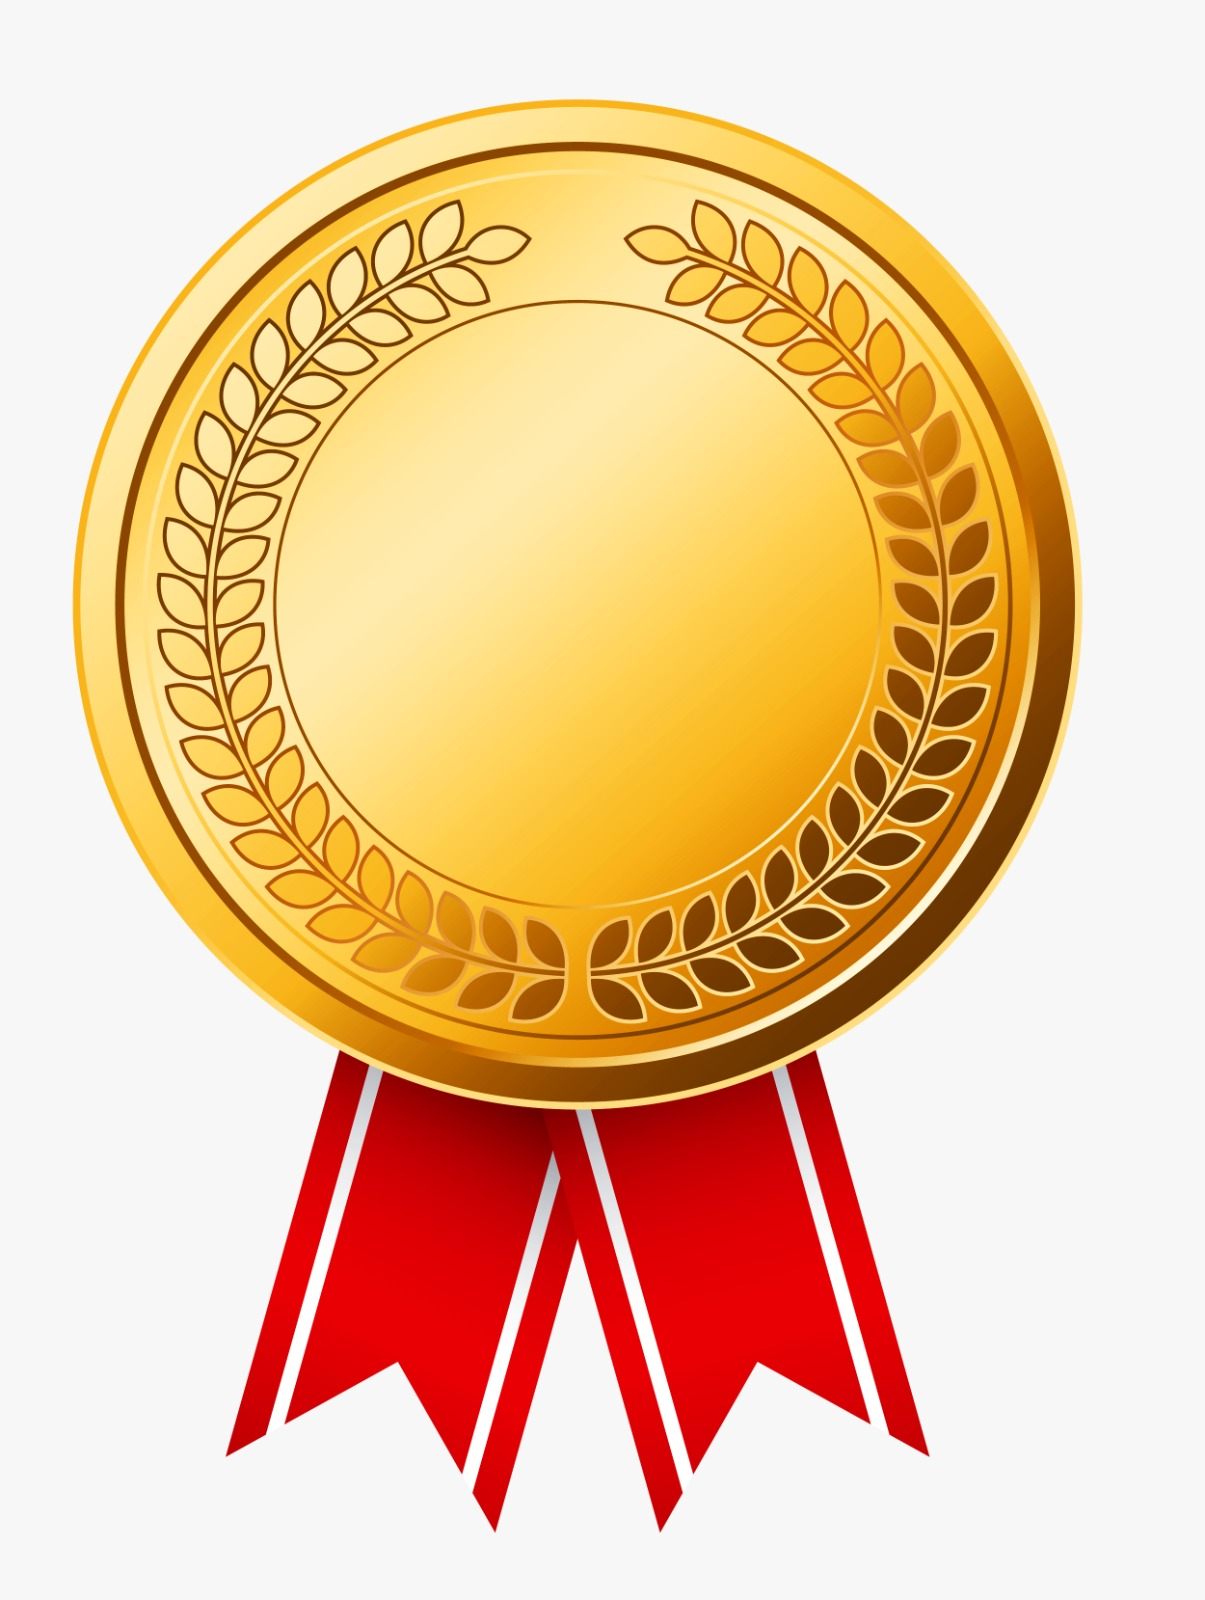
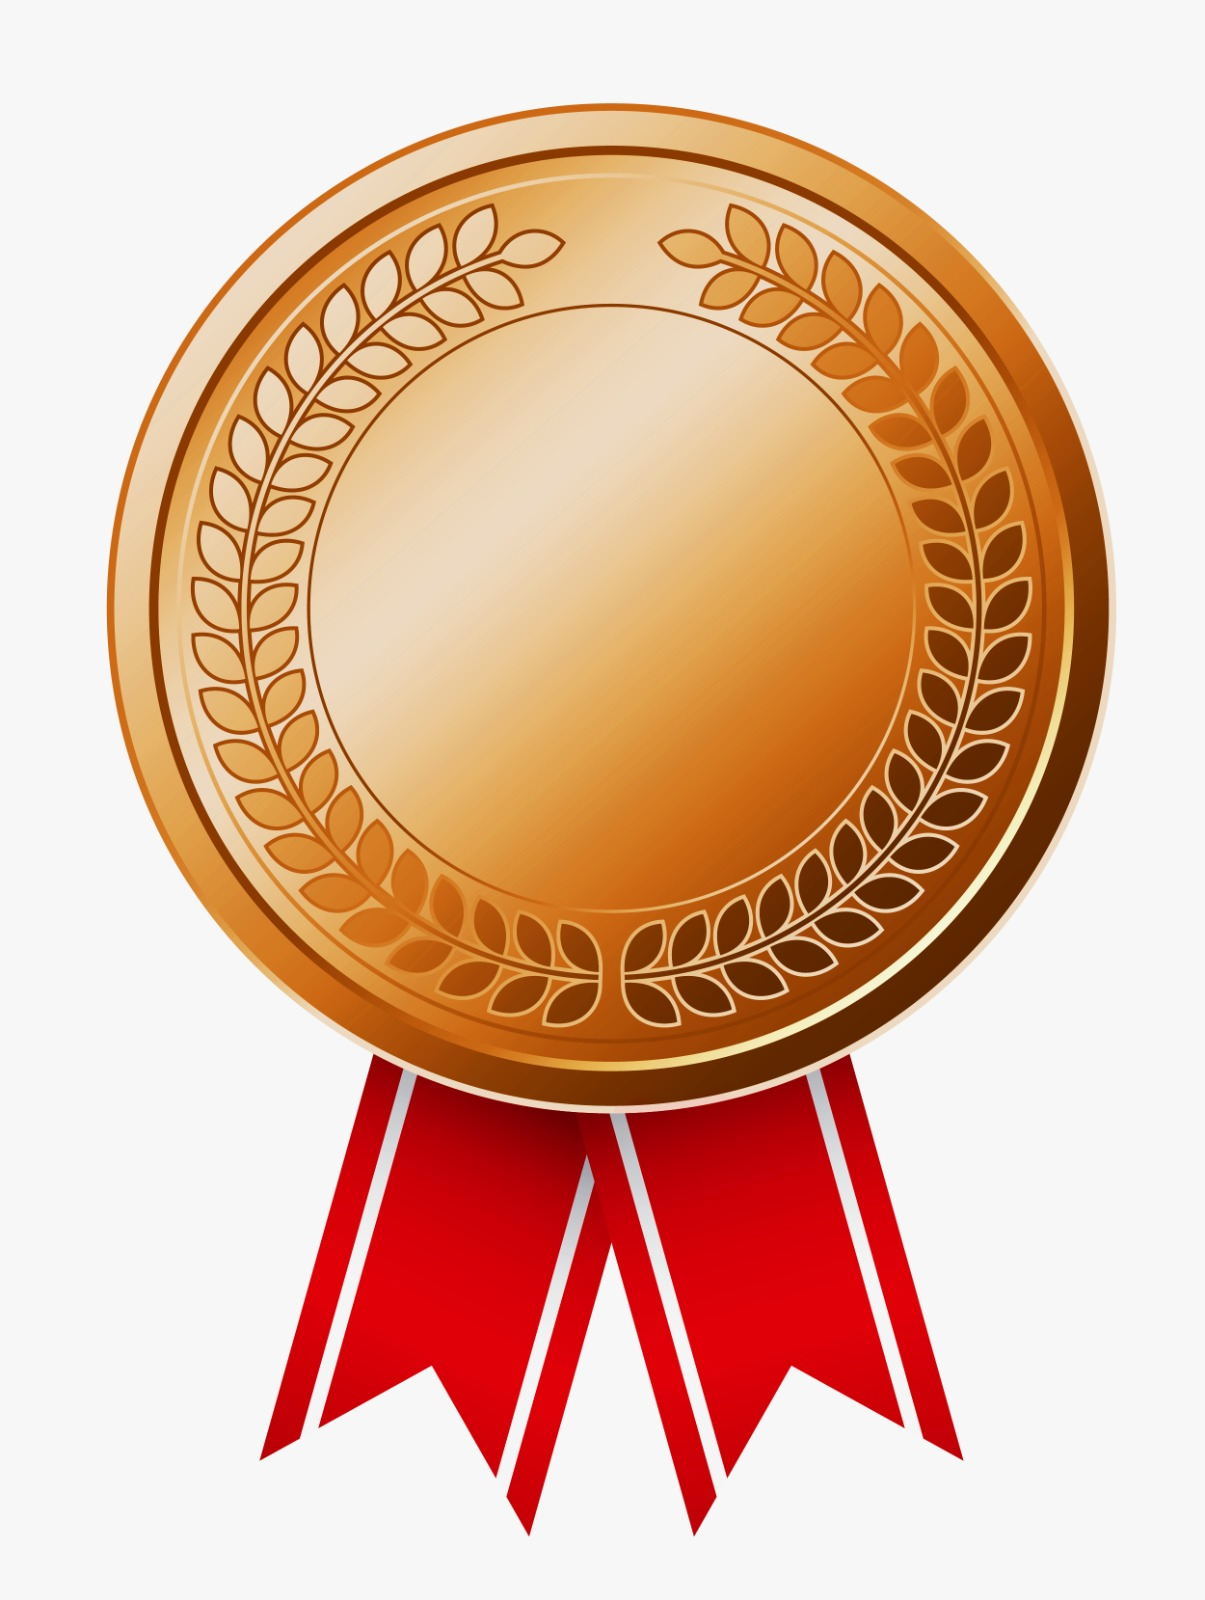
Fix CSS

diff --git a/js/util.js b/js/util.js
@@ -403,7 +403,6 @@ function popUpResultModal(score) {
       Swal.fire({
         imageUrl: "./public/img/medals/gold.jpeg",
         imageWidth: "20vw",
-        // imageHeight: "20vw",
         title: `${displayScore}% 接近圓形`,
         html: "非常好",
       });
@@ -413,17 +412,23 @@ function popUpResultModal(score) {
       Swal.fire({
         imageUrl: "./public/img/medals/silver.jpeg",
         imageWidth: "20vw",
-        // imageHeight: "20vw",
         title: `${displayScore}% 接近圓形`,
         html: "很好",
       });
       break;
 
-    case displayScore < 70:
+    case displayScore >= 50 && displayScore < 70:
       Swal.fire({
         imageUrl: "./public/img/medals/bronze.jpeg",
         imageWidth: "20vw",
-        // imageHeight: "20vw",
+        title: `${displayScore}% 接近圓形`,
+        html: "再接再厲",
+      });
+      break;
+
+    case displayScore < 50:
+      Swal.fire({
+        type: "warning",
         title: `${displayScore}% 接近圓形`,
         html: "加油",
       });

diff --git a/css/style.css b/css/style.css
@@ -19,7 +19,7 @@ info
 */
 .emsd-logo-container {
   left: 0;
-  width: 30%;
+  width: 150px;
   top: 0;
   position: absolute;
   background: white;
@@ -31,7 +31,7 @@ info
 
 .restart-button {
   position: absolute;
-  right: 100px;
+  right: 90px;
   background: yellow;
   width: fit-content;
   padding: 1rem 2rem;
@@ -47,21 +47,8 @@ info
   box-shadow: 0 0 0 0 yellow, 2px 1px 6px 4px rgba(10, 10, 0, 0.5);
 }
 
-.question-mark-button {
-  position: absolute;
-  right: 50px;
-  background: red;
-  width: 50px;
-  height: 50px;
-  border-radius: 50%;
-}
-
 .stitched {
-  /* left: 50px; */
   position: absolute;
-  right: 0;
-  /* margin-top: 10px;
-  margin-left: 10px; */
   font-weight: bold;
   border: 1px dashed grey;
   border-radius: 50%;
